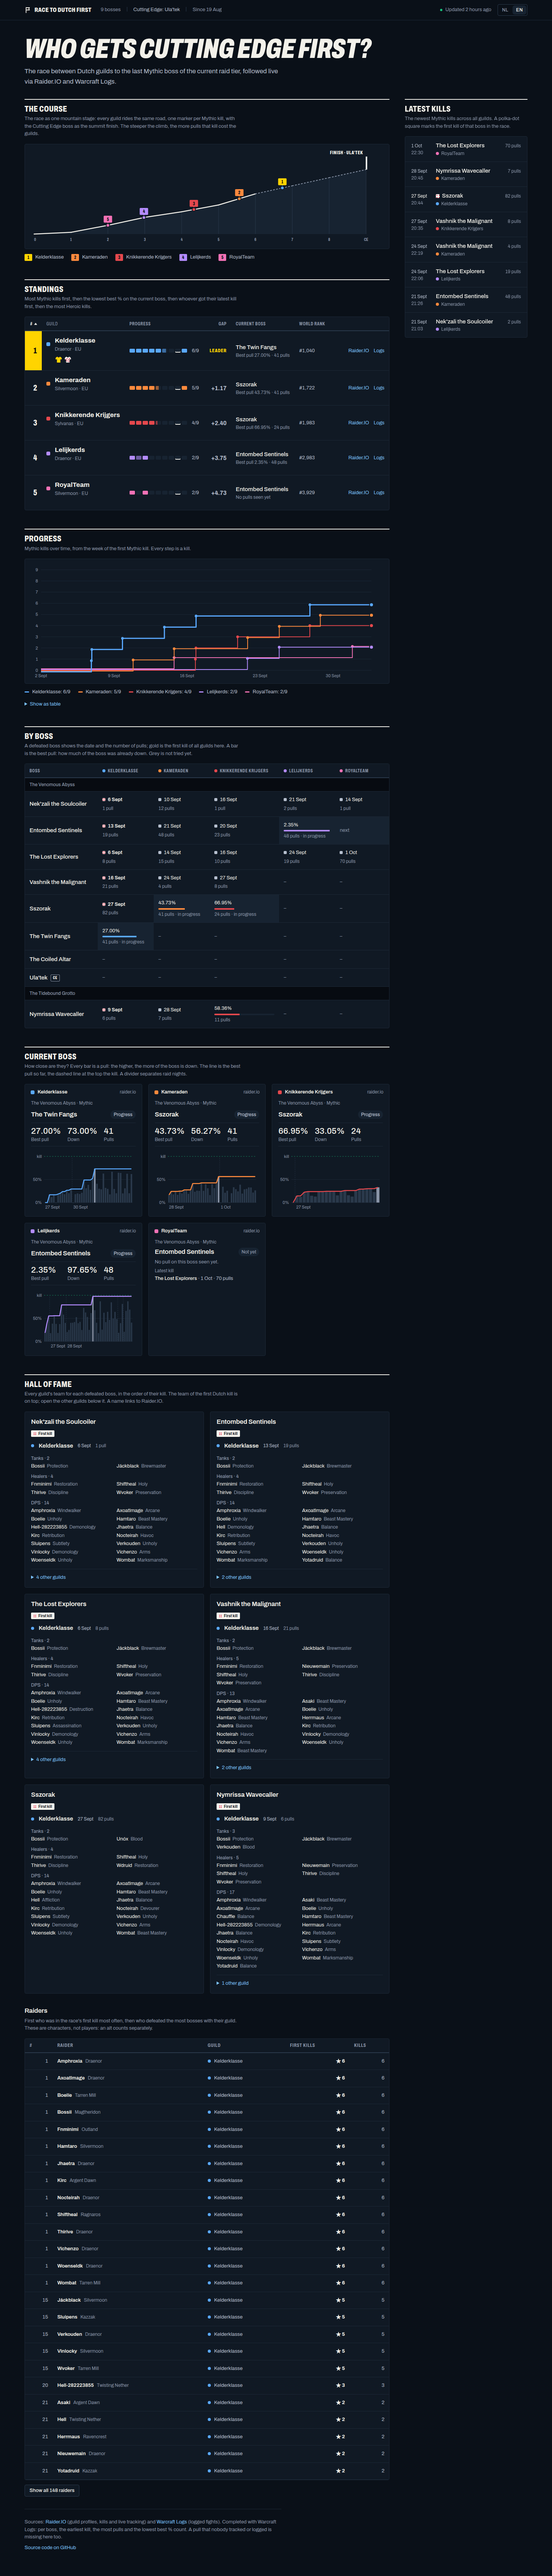
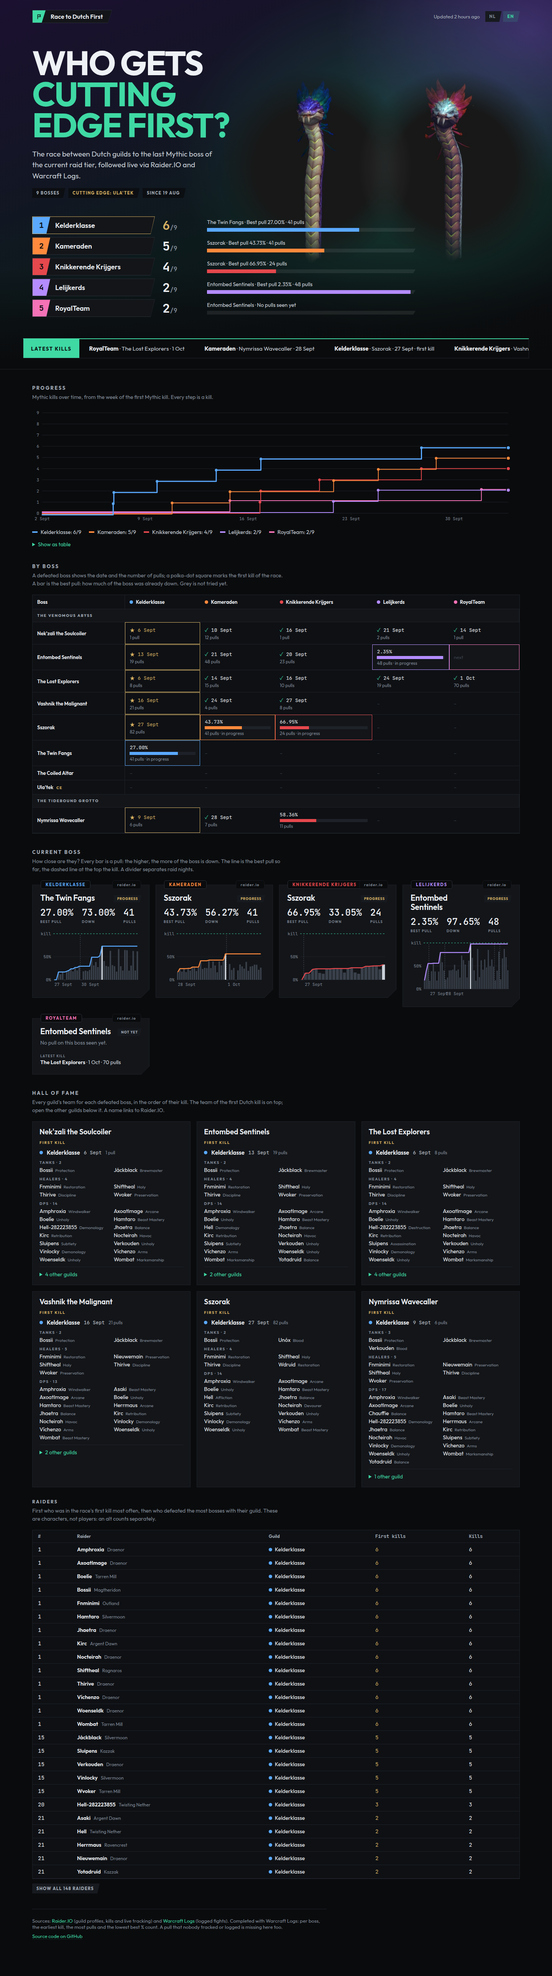
Design v2: direction contract and product record for the splash direction

diff --git a/.impeccable/surfaces/site-index-html.md b/.impeccable/surfaces/site-index-html.md
@@ -7,30 +7,31 @@ related_targets: []
 
 ## Scope
 
-Race to Dutch First, the whole page (`site/index.html` with `style.css`, `halloffame.css`, `og.*`, `app.js`). First surface of design language v2. Mode: Operate. Brand-neutral: no bmiest branding.
+Race to Dutch First, the whole page (`site/index.html` with `splash.css`, `style.css`, `halloffame.css`, `app.js`, `bossart.js`). First surface of design language v2. Mode: Operate with a poster hero. Brand-neutral: no bmiest branding, but the overlay's visual language.
 
 ## Audience and task
 
-Dutch raiders and the wider Dutch WoW community, mostly on a phone or a second monitor around raid nights. Task: see who leads, by how much and who is raiding or live now; then dig into bosses, history and the hall of fame. Constraints: NL + EN for every string (Dutch default); live data honest about source and freshness. Not a sports or betting site.
+Dutch raiders and the wider Dutch WoW community, on a phone or a second monitor around raid nights. Task: see who leads, how far every guild is on its current boss, who is raiding now, the latest kills; then the details below. NL + EN for every string (Dutch default); honest about source and freshness.
 
 ## Direction contract
 
-THESIS: The race read as a Grand Tour: a general classification with gaps, jerseys and a stage profile, run as a precise working data product. It refuses the generic dark dashboard (graphite, indigo accent, Geist) that the first v2 attempt became.
+THESIS: The race as a raid poster in the language of the bmiest stream overlay: the boss the leader is fighting right now is the hero, and the standings sit on it as overlay ribbons. It refuses the generic data dashboard that the canon and Klassement attempts became.
 
-OWN-WORLD: Night-asphalt ground (deep blue-black, not graphite) with race-day white type; maillot-jaune yellow only for the leader and the winner; polka dots (red on white) only for race-first kills; Archivo across its widths, condensed bold uppercase for headings, ranks and gaps, normal width for reading; tabular figures; 2px timing-graphic rules and near-square corners. Guild colours are the riders.
+OWN-WORLD: The overlay's tokens unchanged (ink scale, jade, gold, Outfit + JetBrains Mono): ribbons with a coloured accent block, slanted pills and bars, flat dark panels; a jade/void glow behind a Blizzard boss render; jade for the race brand and live state, gold only for the leader and the winner, guild colours on rank blocks, bars and chips. No side stripes.
 
-STORY: In one look the visitor sees who wears yellow, every guild's gap to the leader and where each one stands on the climb; then they scan the classification, open bosses, history and the hall of fame, and trust it because source and update time sit beside the numbers.
+STORY: In one look the visitor sees the boss the race is stuck on, the question, every guild's kills and how far it has brought its current boss, and the latest kills; LIVE appears only while a guild is raiding. Below: progress over time, per boss, current boss pull charts, hall of fame.
 
-FIRST VIEWPORT: The slim top bar (name, tier, update time, NL|EN). Then "Het parcours": the tier drawn as a stage profile across the content width, one col per boss, each climb as steep as the pulls its first kill cost, the CE boss as the summit finish; every guild a numbered rider on the road at its race position. Directly below, the general classification table: rank, jersey, guild, kills, gap to the leader in condensed figures, current boss, world rank, status. Side column: latest kills and Nu live.
+FIRST VIEWPORT: Top bar with the brand ribbon left, LIVE pill (only when raiding), update time and NL|EN right. Then the uppercase title with "Cutting Edge?" in jade, the lead line and tier pills, over the leader's current boss render (two bodies for a council fight) on the right with nothing drawn on it. Under the title the board: per guild a ribbon (rank block in guild colour, name, raiding badge), kills x/9, and a raid-frame bar labelled with its current boss, best pull and pulls; the leader in gold. A jade "Laatste kills" ticker closes the hero.
 
-FORM: Het Klassement (Tour de France graphics), the IMPECCABLE'S PICK card, rank 1 of the seven grounded candidates; chosen after the category standard was built and rejected; seed key 837f26aa.
+FORM: User-pinned from a three-sketch moodboard: sketch A (the splash) with the ticker of sketch C, after the category standard (seed 837f26aa canon card) and "Het Klassement" (pick card) were built and rejected. Reference the user named: "my overlay".
 
 FINISH: unreviewed and undocumented is unfinished; this build ends with the finish review, the verdict, DESIGN.md, and every shipping raster carrying its provenance
 
 ## Signature move
 
-The stage profile: the race drawn as one mountain stage, guilds as riders on the same road.
+The live hero: the boss the leader is fighting right now, swapping by itself as the race moves on.
 
 ## Unresolved
 
-- Bosses no guild has killed yet have no pull count, so their climb is drawn at the average steepness, dashed.
+- Nymrissa Wavecaller has no render in the overlay's bossart.js; with her as the leader's boss the hero shows no art.
+- Boss renders load from render.worldofwarcraft.com (CSP img-src allows it); no local copies.

diff --git a/PRODUCT.md b/PRODUCT.md
@@ -54,7 +54,7 @@ Today `tokens.css` is copied byte-for-byte between the three repositories; this 
 - **Race to Dutch First stays neutral**: no bmiest branding, so other guilds can share it without it feeling like one streamer's site. It may use the same underlying design language.
 - Guild colours in the race come from its configuration and belong to the guilds.
 - Character renders of the operator's characters (Shiftheal, Bhikhu) are used on the overlay.
-- **Standing preference (chosen 2026-10-03 in the v2 direction round):** all three products follow the category standard, a dark data product, executed at the craft level of Linear and Vercel (interface finish) and Raider.IO (WoW data presentation). Convention is the commitment: no novelty world on top of it.
+- **Direction history (2026-10-03):** built and rejected for the race site: the category standard (dark data product at Linear/Vercel finish: "too generic, AI-looking") and "Het Klassement" (Tour de France graphics: "still a dashboard, too dark, not WoW, a theme on top"). Chosen from a moodboard: **the overlay's own language grown into a poster**, the leader's current boss as the hero, standings as overlay ribbons, a kills ticker. The user named their own overlay as the reference. More gamer-like is welcome; a generic dashboard is not.
 
 ## Evidence on Hand
 
